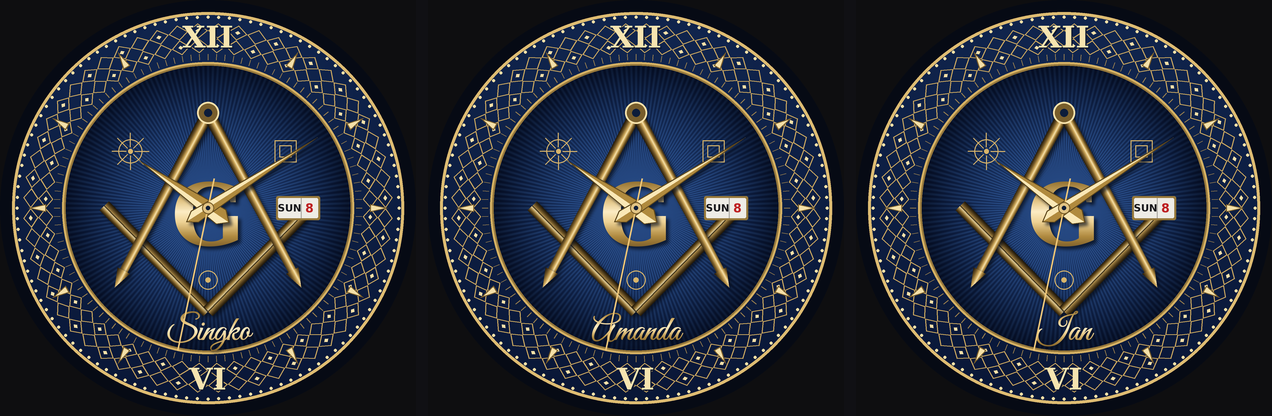
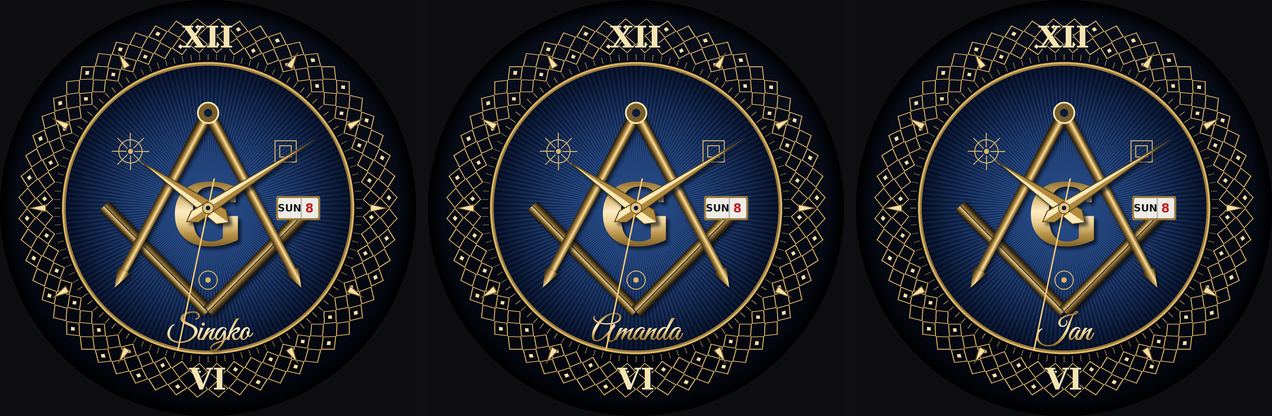
Run the dial to the screen edge and fade it out
On the watch the dial read as a disc pasted onto the screen: the band
stopped at radius 196 of 208, leaving a 12px black margin of our own
between it and the bezel, with a bright gold rim drawing a hard edge
right at that boundary.

The band now reaches RING_OUT 208 and falls to black from FADE_FROM
192, with no outer rim and no outer bead ring - both of those
reinstate the edge. Its field also goes from navy to near-black, which
is crisper under the gold lattice and, on an AMOLED, genuinely off, so
the band merges into the bezel rather than meeting it. The centre
stays blue; an all-dark variant was rejected because black-and-gold
throughout is what makes fraternal watches look cheap.

The fade is 17 concentric drawCircles rather than another 96-wedge
sub-band - out there the band is near-black and per-wedge top-lighting
is imperceptible. Net cost drops to about 875 primitive calls from
970, since the 112 outer beads are gone.

Also records that the project now compiles and runs on a real Epix Gen
2, custom bitmap font included. That was the piece flagged as least
likely to survive Garmin's resource compiler, and it worked.

Claude-Session: https://claude.ai/code/session_01CGWrd6ZX9VHB5WwwZp5P66

Changed region(s): [[0.0, 0.0312, 1.0, 0.9688]]

diff --git a/render_v3.py b/render_v3.py
@@ -31,7 +31,11 @@ NAME = "Singko"
 # rest to the gold band. Earlier passes had the band far too narrow and the
 # dial read as a blue face with a gold trim rather than an engraved bezel.
 BLUE_R = 144          # inner blue dial
-RING_IN, RING_OUT = 146, 196
+# The band now runs to the screen edge and fades out there. Stopping it short
+# of the edge and capping it with a bright rim made the dial read as a disc
+# pasted onto the screen, with our own black margin between it and the bezel.
+RING_IN, RING_OUT = 146, 208
+FADE_FROM = 192       # band is solid to here, then falls to black by RING_OUT
 
 EMBLEM_SCALE = 1.08   # must match bake_emblem.TARGETS["square"]["scale"]
 
@@ -118,15 +122,21 @@ LATTICE_R = 2         # rows across the band
 
 
 def ring_field():
-    """Navy base for the band, a shade deeper than the centre."""
+    """Near-black base for the band, fading to true black at the screen edge.
+
+    Gold on black is far crisper than gold on navy, and on an AMOLED the black
+    is genuinely off - so the band merges into the bezel instead of ending at
+    a visible edge.
+    """
     y, x = np.mgrid[0:W, 0:W]
     dx, dy = (x - C) / SS, (y - C) / SS
     r = np.hypot(dx, dy)
-    deep = np.array([8, 20, 50], dtype=float)
-    lift = np.array([22, 48, 96], dtype=float)
+    deep = np.array([2, 4, 10], dtype=float)
+    lift = np.array([10, 16, 30], dtype=float)
     t = np.clip((1.0 - dy / RING_OUT) / 2.0, 0, 1) * 0.7 + 0.15
-    t = t * np.clip(1.18 - r / RING_OUT * 0.5, 0.5, 1.0)
     img = deep[None, None, :] + (lift - deep)[None, None, :] * t[:, :, None]
+    fade = np.clip((RING_OUT - r) / float(RING_OUT - FADE_FROM), 0, 1)
+    img *= fade[:, :, None]
     return Image.fromarray(np.clip(img, 0, 255).astype(np.uint8), "RGB")
 
 
@@ -142,7 +152,7 @@ def ornate_ring(img):
         fill=0)
     img.paste(ring_field(), (0, 0), ann)
 
-    field_in, field_out = RING_IN + 9, RING_OUT - 11
+    field_in, field_out = RING_IN + 9, FADE_FROM - 2
     step = (field_out - field_in) / LATTICE_R
     gold = (206, 170, 96, 255)
     bright = (244, 224, 168, 255)
@@ -174,14 +184,7 @@ def ornate_ring(img):
         a = k / (LATTICE_A * 2) * 2 * math.pi
         d.line([pol(RING_IN + 2.0, a), pol(field_in - 1.0, a)],
                fill=(180, 146, 80, 220), width=int(0.9 * SS))
-    for k in range(112):
-        a = k / 112 * 2 * math.pi
-        p = pol(RING_OUT - 5, a)
-        br = 1.5 * SS
-        d.ellipse([p[0] - br, p[1] - br, p[0] + br, p[1] + br], fill=bright)
-
     for rad, wid, col in ((RING_IN, 2.4, (214, 178, 100)),
-                          (RING_OUT, 3.0, (222, 188, 114)),
                           (BLUE_R, 1.8, (150, 120, 60))):
         d.ellipse([C - rad * SS, C - rad * SS, C + rad * SS, C + rad * SS],
                   outline=col, width=int(wid * SS))
@@ -290,6 +293,9 @@ def emblem(img, scale=EMBLEM_SCALE):
 # ------------------------------------------------------------------- aperture
 
 def aperture(img, day="SUN", date="8"):
+    """The day/date window. `day=None, date=None` draws the frame and the white
+    window but no text, which is what bake_dial.py wants -- the day and date
+    are live, so GaugeFaceView draws them into the window every update."""
     d = ImageDraw.Draw(img, "RGBA")
     x0, y0, x1, y1 = C + 70 * SS, C - 10 * SS, C + 110 * SS, C + 10 * SS
     d.rounded_rectangle([x0 - 2 * SS, y0 - 2 * SS, x1 + 2 * SS, y1 + 2 * SS],
@@ -297,10 +303,12 @@ def aperture(img, day="SUN", date="8"):
     d.rounded_rectangle([x0, y0, x1, y1], radius=1.5 * SS, fill=(238, 236, 230))
     d.line([(x0 + 23 * SS, y0), (x0 + 23 * SS, y1)], fill=(170, 168, 162),
            width=int(1.0 * SS))
-    d.text(((x0 + x0 + 23 * SS) / 2, (y0 + y1) / 2), day, font=font(SANSB, 10),
-           fill=(24, 24, 28), anchor="mm")
-    d.text(((x0 + 23 * SS + x1) / 2, (y0 + y1) / 2), date, font=font(SANSB, 12),
-           fill=(190, 32, 34), anchor="mm")
+    if day is not None:
+        d.text(((x0 + x0 + 23 * SS) / 2, (y0 + y1) / 2), day, font=font(SANSB, 10),
+               fill=(24, 24, 28), anchor="mm")
+    if date is not None:
+        d.text(((x0 + 23 * SS + x1) / 2, (y0 + y1) / 2), date, font=font(SANSB, 12),
+               fill=(190, 32, 34), anchor="mm")
 
 
 # ----------------------------------------------------------------------- name
@@ -343,7 +351,10 @@ def engraved_name(img, name=NAME, y=124, size=34):
 
 # --------------------------------------------------------------------- layers
 
-def draw_static(name=NAME):
+def draw_static(name=NAME, day="SUN", date="8"):
+    """Everything that does not move. `name=None` leaves the engraved name off,
+    which is what bake_dial.py wants: the name is a user setting, so on device
+    it is drawn over the baked dial rather than baked into it."""
     img = Image.new("RGB", (W, W), (6, 10, 20))
     disc = Image.new("L", (W, W), 0)
     ImageDraw.Draw(disc).ellipse(
@@ -355,8 +366,9 @@ def draw_static(name=NAME):
     markers(img)
     symbols(img)
     emblem(img)
-    aperture(img)
-    engraved_name(img, name)
+    aperture(img, day, date)
+    if name is not None:
+        engraved_name(img, name)
     return img
 
 

diff --git a/bake_dial.py b/bake_dial.py
@@ -1,0 +1,96 @@
+"""Bake the Square dial's static layer to a drawable, one per screen size.
+
+Why this exists: drawing the static layer on device tripped the Connect IQ
+watchdog. The band alone is ~470 fillPolygon calls, and every vertex goes
+through polar(), so onLayout was asking for ~3,200 trig evaluations in one
+callback. The watch killed it twice and showed a broken-icon watch face.
+
+The Python renderer already produces the exact dial, so bake it: onLayout
+blits one bitmap and the per-frame cost is the hands and the text, as before.
+The owner's name is NOT baked in -- it is a user setting, so DialSquare.mc
+draws it over the top in the script font.
+
+Run after any change to render_v3's static layer:
+
+    python3 bake_dial.py              # all sizes -> resources-round-*/drawables/
+    python3 bake_dial.py /tmp         # elsewhere, to compare first
+
+Geometry is authored at 416 and rendered supersampled, so the other sizes are
+a LANCZOS downsample of the same image -- matching the `_s = width / 416.0`
+scaling the Monkey C applies to everything else.
+"""
+import sys
+from pathlib import Path
+
+from PIL import Image, ImageDraw
+
+import render_v2 as R
+import render_v3 as V3
+
+HERE = R.HERE
+W = R.W
+
+# deviceFamily -> screen size. epix2 and epix2pro47mm share round-416x416.
+TARGETS = {
+    "round-390x390": 390,
+    "round-416x416": 416,
+    "round-454x454": 454,
+}
+
+FILE = "dial_square.png"
+RES_ID = "DialSquare"
+
+# The dial's outermost painted radius, in 416-units: the band's outer rim plus
+# its stroke. The bake is cropped to this rather than to the full 416 frame, so
+# the gold band reaches the rim of a round screen. Cropping the 4x supersample
+# costs no resolution -- nothing is scaled up.
+#
+# The consequence: the screen is 2*EDGE units wide for this dial, not 416. The
+# live layer (name, day/date, hands) must scale to match or it drifts off the
+# artwork, which is what SQ_EDGE in DialSquare.mc is for. Keep the two equal.
+EDGE = V3.RING_OUT + 2
+
+# 256 is the most a palettised PNG carries, and the dial is two ramps (navy and
+# gold) so it quantises well. Dithering matters here: without it the blue field
+# and the gold band both band visibly on a 65k-colour AMOLED.
+COLORS = 256
+
+
+def bake(px):
+    """The static layer, minus the name, cropped to the dial's outer edge."""
+    img = V3.draw_static(name=None, day=None, date=None)
+
+    e = EDGE * R.SS
+    out = img.crop((R.C - e, R.C - e, R.C + e, R.C + e))
+
+    # round off the corners the crop leaves, so nothing juts past the bezel
+    mask = Image.new("L", out.size, 0)
+    ImageDraw.Draw(mask).ellipse([0, 0, out.size[0] - 1, out.size[1] - 1], fill=255)
+    disc = Image.new("RGB", out.size, (0, 0, 0))
+    disc.paste(out, (0, 0), mask)
+
+    out = disc.resize((px, px), Image.LANCZOS)
+    return out.quantize(colors=COLORS, method=Image.MEDIANCUT, dither=Image.FLOYDSTEINBERG)
+
+
+def main():
+    root = Path(sys.argv[1]) if len(sys.argv) > 1 else HERE
+    for family, px in sorted(TARGETS.items()):
+        dest = root / f"resources-{family}" / "drawables"
+        dest.mkdir(parents=True, exist_ok=True)
+
+        img = bake(px)
+        path = dest / FILE
+        img.save(path, optimize=True)
+
+        (dest / "drawables.xml").write_text(
+            '<drawables>\n'
+            f'    <!-- Baked by bake_dial.py; see the module docstring. -->\n'
+            f'    <bitmap id="{RES_ID}" filename="{FILE}" />\n'
+            '</drawables>\n')
+
+        print(f"{family:16s} {px}x{px}  {path.stat().st_size:7d} bytes  -> {path}")
+
+
+if __name__ == "__main__":
+    main()

diff --git a/render_v2.py b/render_v2.py
@@ -21,9 +21,25 @@ SS = 4
 W = S * SS
 C = W // 2
 
-SERIF = "/usr/share/fonts/truetype/dejavu/DejaVuSerif-Bold.ttf"
-SANS = "/usr/share/fonts/truetype/dejavu/DejaVuSans.ttf"
-SANSB = "/usr/share/fonts/truetype/dejavu/DejaVuSans-Bold.ttf"
+# DejaVu, wherever the distro keeps it. Debian puts it under truetype/dejavu/,
+# Fedora under dejavu-*-fonts/. Resolved rather than hardcoded so the same
+# checkout renders identically on either; the dial's XII/VI and the emblem's G
+# are DejaVu Serif Bold, so a silent substitution would change the artwork.
+def _dejavu(stem):
+    roots = ("/usr/share/fonts", "/usr/local/share/fonts",
+             str(Path.home() / ".local/share/fonts"))
+    for root in roots:
+        for hit in Path(root).rglob(stem):
+            return str(hit)
+    raise SystemExit(
+        f"{stem} not found. Install DejaVu:\n"
+        f"  Debian/Ubuntu: apt-get install -y fonts-dejavu-core\n"
+        f"  Fedora:        dnf install -y dejavu-serif-fonts dejavu-sans-fonts")
+
+
+SERIF = _dejavu("DejaVuSerif-Bold.ttf")
+SANS = _dejavu("DejaVuSans.ttf")
+SANSB = _dejavu("DejaVuSans-Bold.ttf")
 
 rng = np.random.default_rng(7)
 

diff --git a/CLAUDE.md b/CLAUDE.md
@@ -66,20 +66,28 @@ These apply to both dials unless noted.
 - **Text gets its own gold ramp (`GOLD_TEXT`).** The full `GOLD` ramp runs dark
   at both ends, which buries small glyphs; the first `G` and the first engraved
   name both disappeared into the dial.
-- **Blue centre, not black.** Black-and-gold reads as the cheap end of the
-  fraternal-supply market.
+- **The *centre* stays blue.** Black-and-gold throughout reads as the cheap end
+  of the fraternal-supply market, which is why an all-dark variant was rejected.
+  The band going near-black is fine precisely because the navy centre still
+  carries the dial.
 - **Hands are split down their length**, lit on one side and shadowed on the
   other. That split is what reads as polished metal.
-- **The band is a blue field carrying gold ornament — not a gold slab.** This is
+- **The band is a dark field carrying gold ornament — not a gold slab.** This is
   the part that matters, and it took three passes to get right. The band was
   first built as gold with dark engraving cut into it; widening that toward the
   reference's proportions made the dial *worse*, because it widened the wrong
-  material. The reference's band is the same navy as the centre with a gold
-  lattice laid over it. Do not turn it back into gold.
+  material. Do not turn it back into gold. It was navy for a while and is now
+  near-black, which is crisper under the gold and, on an AMOLED, genuinely off.
+- **The dial runs to the screen edge and fades out there; it has no outer rim.**
+  Ending the band at radius 196 and capping it with a bright gold circle left a
+  12px black margin of our own between the dial and the bezel, and on the watch
+  it read as a disc pasted onto the screen. The band now reaches `RING_OUT` 208
+  and falls to black from `FADE_FROM` 192. Do not add an outer rim or an outer
+  bead ring back — both reinstate the hard edge.
 - **The band's *width* is a taste call, not a fidelity one.** The reference gives
-  roughly 40% of the radius to the band; this dial gives it 25%
-  (`BLUE_R` 144, band 146–196), because a narrower ring was preferred once the
-  material was right. Earlier notes here asserted first that the band must not
+  roughly 40% of the radius to the band; this dial gives it 30%
+  (`BLUE_R` 144, band 146–208 with the outer 16 fading out), because a narrower
+  ring was preferred once the material was right. Earlier notes here asserted first that the band must not
   dominate and then that it must be wide — both overstated. Change the width
   freely; just remember `NUM_R`, `LATTICE_R`, the line-work radii, the emblem
   scale and the name's `y` all key off it.
@@ -141,8 +149,8 @@ private `p(v)` that scales-and-rounds. **Write new geometry in 416 units and put
 it through `p()`** — that is what makes the Epix Pro sizes work.
 
 Square dial constants (`DialSquare.mc`): `BLUE_R` 144, `RING_IN` 146,
-`RING_OUT` 196, `NUM_R` 171, `SQ_EMBLEM_X`/`Y` 97/99, plus the cost tunables
-`RAYS` 80, `BANDS` 3, `LATTICE_A` 56 and `LATTICE_R` 2. Gauge dial constants
+`RING_OUT` 208, `FADE_FROM` 192, `NUM_R` 171, `SQ_EMBLEM_X`/`Y` 97/99, plus the
+cost tunables `RAYS` 80, `BANDS` 3, `LATTICE_A` 56 and `LATTICE_R` 2. Gauge dial constants
 (`DialGauge.mc`): `DIAL_INNER` 172, `RING_OUTER` 204, `SUB_OFFSET` 132,
 `SUB_RADIUS` 34, `GA_EMBLEM_X`/`Y` 103/103.
 
@@ -239,23 +247,26 @@ together, and `liveGauge` for the top window.
 Sideloaded apps don't get settings in the phone app — change them in the
 simulator, or publish as a private Connect IQ app.
 
-## Known unknowns — none of this has ever compiled
+## Build status
 
-Written without an SDK available; there is no `monkeyc` on PATH here. Expect
-first-build friction:
+**It compiles and runs on a real Epix Gen 2**, as of the edge-treatment work.
+The custom bitmap font loaded correctly on device — that was the piece most
+likely to fail. There is still no SDK and no `monkeyc` on PATH *here*, so
+changes made in this environment remain unverified until built on the user's
+machine. The notes below are what to expect from a fresh checkout:
 
-- **The font is the least certain part.** Nothing has confirmed that Garmin's
-  resource compiler accepts this exact BMFont dialect, or that it wants an RGBA
-  atlas rather than a palettised one. If it rejects the font, `drawName` already
-  falls back to `FONT_SYSTEM_SMALL`. What *is* verified: glyphs reassembled from
-  the baked `.fnt` metrics match the mock-up's own layout to within half a pixel
-  of centre on several names.
+- **The font works on device.** Garmin's resource compiler accepts the BMFont
+  dialect `bake_font.py` emits, with the RGBA atlas, and the name renders in
+  script on a real watch. `drawName` still falls back to `FONT_SYSTEM_SMALL` if
+  the resource fails to load; leave that in.
 - Device IDs in `manifest.xml` need reconciling against
   `~/.Garmin/ConnectIQ/Devices/`.
 - Full-screen buffered bitmap may fail to allocate. Fallbacks: halve `RAYS`, or
   buffer at half resolution and scale on blit.
-- The static layer is roughly **970** primitive calls for the Square dial (the
-  band accounts for 700 of them) and ~700 for the Gauge. Once only, in
+- The static layer is roughly **875** primitive calls for the Square dial (the
+  band accounts for 600 of them) and ~700 for the Gauge. The edge fade is 17
+  concentric `drawCircle`s rather than another 96-wedge sub-band — out there the
+  band is near-black, so per-wedge top-lighting is imperceptible. Once only, in
   `onLayout`, but if the face is slow to appear, drop `LATTICE_R` to 2 before
   touching `RAYS` — the band matters more to the likeness than the rays, which
   the emblem largely covers.

diff --git a/README.md b/README.md
@@ -5,8 +5,8 @@ Two dials in one watch face, chosen in the settings. Built for the Epix Gen 2
 
 ![the two dials side by side](docs/preview.png)
 
-**Square and Compasses** (default) — a navy engine-turned centre inside a navy
-band carrying a gold quilted lattice, gold XII and VI, fine gold line-work
+**Square and Compasses** (default) — a navy engine-turned centre inside a
+near-black band carrying a gold quilted lattice, gold XII and VI, fine gold line-work
 in the blue field (blazing star, small square, point within a circle), the
 applied square and compasses around an ornate G, a day/date aperture at three,
 and your name engraved in script below the emblem.
@@ -109,18 +109,18 @@ if you want to switch dials or set the name from your phone.
 
 ## Things to expect on first build
 
-I couldn't compile this — no Garmin SDK in the environment it was written in.
-Budget an hour for the usual friction:
+It compiles and runs on a real Epix Gen 2, custom font and all. But the SDK
+isn't available in the environment it's developed in, so a fresh checkout is
+worth treating with care:
 
-- **The custom font is the least certain part.** Its metrics are verified
-  against a direct render, but nothing has confirmed Garmin's resource compiler
-  accepts this BMFont dialect or wants an RGBA atlas. If it's rejected, the name
-  falls back to a system font and stops being cursive.
+- **The custom font is known to work on device.** If you ever swap the typeface
+  and the resource compiler rejects the new atlas, `drawName` falls back to a
+  system font and the name simply stops being cursive.
 - **Device IDs.** Check the folder names under `~/.Garmin/ConnectIQ/Devices/`
   and reconcile `manifest.xml` against them.
 - **Memory and startup.** Two dials means two static layers of code and two
   emblem assets, though only one of each is live at a time. The Square dial's
-  static layer is about 970 primitive calls, drawn once in `onLayout`; if it's
+  static layer is about 875 primitive calls, drawn once in `onLayout`; if it's
   slow to appear, drop `LATTICE_R` to 2 in `DialSquare.mc`. If the full-screen
   buffer fails to allocate, render it at half resolution and scale on blit.
 - **Sunrise and sunset** (Gauge dial) need a position fix; until the watch has
